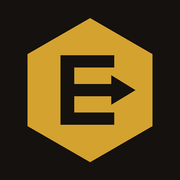
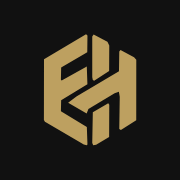
Add files via upload

diff --git a/app.js b/app.js
@@ -24,6 +24,8 @@
   let query = "";
   let settings = {};
   // Shop details: use what the owner saved in Settings, otherwise fall back to config.js
+  // Business name: what the owner saved in Settings, otherwise the default
+  const bizName = () => ((settings.business_name || "").trim() || "Ebony Imports Hub");
   const val = (k) => {
     const v = settings[k.toLowerCase()];
     return v !== undefined && v !== null && String(v).trim() !== "" ? String(v).trim() : cfg[k];
@@ -93,7 +95,15 @@
       setupNeeded();
       return;
     }
-    sb = window.supabase.createClient(cfg.SUPABASE_URL, cfg.SUPABASE_ANON_KEY);
+    // The owner login is kept in sessionStorage, which the browser wipes when the tab or app is closed.
+    // So after closing, the password is needed again. (Old "stay logged in" copies are removed.)
+    try { Object.keys(localStorage).filter((k) => /^sb-.*-auth-token/.test(k)).forEach((k) => localStorage.removeItem(k)); } catch (_) {}
+    let store;
+    try { store = window.sessionStorage; store.getItem("x"); }
+    catch (_) { const mem = {}; store = { getItem: (k) => (k in mem ? mem[k] : null), setItem: (k, v) => { mem[k] = v; }, removeItem: (k) => { delete mem[k]; } }; }
+    sb = window.supabase.createClient(cfg.SUPABASE_URL, cfg.SUPABASE_ANON_KEY, {
+      auth: { storage: store, persistSession: true, autoRefreshToken: true, detectSessionInUrl: false },
+    });
     const { data } = await sb.auth.getSession();
     session = data.session;
     sb.auth.onAuthStateChange((_e, s) => { session = s; });
@@ -187,7 +197,7 @@
 
   function contactSection() {
     const num = String(val("WHATSAPP_NUMBER") || "").replace(/\D/g, "");
-    const chat = `https://wa.me/${num}?text=${encodeURIComponent("Hello " + (val("BUSINESS_NAME") || "Ebony Import Hub") + ", I have a question.")}`;
+    const chat = `https://wa.me/${num}?text=${encodeURIComponent("Hello " + (bizName()) + ", I have a question.")}`;
     const items = [];
     if (num) items.push(`<a class="btn btn-wa" href="${esc(chat)}" target="_blank" rel="noopener">Chat on WhatsApp${val("PHONE_DISPLAY") ? ` · ${esc(val("PHONE_DISPLAY"))}` : ""}</a>`);
     if (val("WHATSAPP_GROUP")) items.push(`<a class="btn btn-gold" href="${esc(val("WHATSAPP_GROUP"))}" target="_blank" rel="noopener">Join our WhatsApp group</a>`);
@@ -242,7 +252,7 @@
     const waLink = () => {
       const b = avail.find((x) => x.id === chosen);
       const lines = [
-        `Hello ${val("BUSINESS_NAME") || "Ebony Import Hub"}, I'd like to preorder:`,
+        `Hello ${bizName()}, I'd like to preorder:`,
         p.name,
         `Item: ${naira(p.price)}`,
         `Shipping: ${naira(p.shipping_fee)}`,
@@ -318,7 +328,7 @@
   function renderInfo() {
     if (!loaded) { app.innerHTML = `<div class="loading">Loading…</div>`; return; }
     const num = String(val("WHATSAPP_NUMBER") || "").replace(/\D/g, "");
-    const chat = `https://wa.me/${num}?text=${encodeURIComponent("Hello " + (val("BUSINESS_NAME") || "Ebony Import Hub") + ", I have a question about shipping.")}`;
+    const chat = `https://wa.me/${num}?text=${encodeURIComponent("Hello " + (bizName()) + ", I have a question about shipping.")}`;
     const rules = (settings.rules || "").trim();
     app.innerHTML = `
       <section class="hero"><h1>Shipping rules &amp; how to order</h1>
@@ -528,7 +538,7 @@
         <h2 style="margin:0 0 14px;font-size:18px">Shop details</h2>
         <form id="sform">
           <div class="field"><label for="s-name">Business name</label>
-            <input id="s-name" type="text" maxlength="60" value="${esc(val("BUSINESS_NAME"))}"></div>
+            <input id="s-name" type="text" maxlength="60" value="${esc(bizName())}"></div>
           <div class="field"><label for="s-wa">WhatsApp number</label>
             <input id="s-wa" type="text" inputmode="tel" maxlength="20" value="${esc(val("PHONE_DISPLAY") || val("WHATSAPP_NUMBER"))}">
             <span class="hint">e.g. 09066944108. Customers' preorder messages go to this number.</span></div>
@@ -807,6 +817,20 @@
       }
     };
   }
+
+  // The owner area is not linked anywhere customers can see.
+  // To open the owner login: tap the logo at the top 5 times quickly.
+  (function () {
+    const brand = document.querySelector(".brand");
+    if (!brand) return;
+    let taps = 0, timer;
+    brand.addEventListener("click", (e) => {
+      taps += 1;
+      clearTimeout(timer);
+      timer = setTimeout(() => { taps = 0; }, 2500);
+      if (taps >= 5) { taps = 0; e.preventDefault(); location.hash = "#/owner"; }
+    });
+  })();
 
   if ("serviceWorker" in navigator) {
     window.addEventListener("load", () => navigator.serviceWorker.register("sw.js").catch(() => {}));

diff --git a/index.html b/index.html
@@ -3,9 +3,9 @@
 <head>
 <meta charset="utf-8">
 <meta name="viewport" content="width=device-width, initial-scale=1, viewport-fit=cover">
-<title>Ebony Import Hub</title>
+<title>Ebony Imports Hub</title>
 <meta name="description" content="Preorder from China. Browse products with prices including shipping.">
-<meta name="theme-color" content="#14110F">
+<meta name="theme-color" content="#111111">
 <link rel="manifest" href="manifest.webmanifest">
 <link rel="icon" type="image/png" href="icons/icon-192.png">
 <link rel="apple-touch-icon" href="icons/apple-touch-icon.png">
@@ -15,21 +15,14 @@
 <meta name="apple-mobile-web-app-status-bar-style" content="black-translucent">
 <link rel="preconnect" href="https://fonts.googleapis.com">
 <link rel="preconnect" href="https://fonts.gstatic.com" crossorigin>
-<link href="https://fonts.googleapis.com/css2?family=Sora:wght@400;500;600;700&amp;display=swap" rel="stylesheet">
+<link href="https://fonts.googleapis.com/css2?family=Sora:wght@400;500;600;700&amp;family=Playfair+Display:wght@700&amp;family=Montserrat:wght@600;700&amp;display=swap" rel="stylesheet">
 <link rel="stylesheet" href="styles.css">
 </head>
 <body>
 <header class="top">
-  <a class="brand" href="#/" aria-label="Ebony Import Hub home">
-    <svg width="40" height="40" viewBox="0 0 120 120" aria-hidden="true">
-      <polygon points="60,6 106.8,33 106.8,87 60,114 13.2,87 13.2,33" fill="#D4A22F"/>
-      <rect x="38" y="34" width="10" height="52" fill="#14110F"/>
-      <rect x="38" y="34" width="40" height="9" fill="#14110F"/>
-      <rect x="38" y="77" width="40" height="9" fill="#14110F"/>
-      <rect x="38" y="55.5" width="40" height="9" fill="#14110F"/>
-      <polygon points="76,49 94,60 76,71" fill="#14110F"/>
-    </svg>
-    <span class="brand-text"><b>EBONY</b><small>IMPORT HUB</small></span>
+  <a class="brand" href="#/" aria-label="Ebony Imports Hub home">
+    <svg width="31" height="37" viewBox="0 0 203.0 243.0" aria-hidden="true"><path fill="#BDA060" fill-rule="evenodd" d="M139.8 150.1 L107.2 169.5 L106.0 234.4 L108.1 238.8 L114.2 237.8 L141.6 221.4 L141.9 153.4ZM165.6 38.0 L163.0 41.4 L162.4 83.0 L72.6 136.1 L55.1 149.0 L94.2 171.9 L97.9 162.5 L153.2 129.2 L162.2 126.2 L164.0 136.5 L163.0 204.4 L166.4 206.9 L198.8 186.0 L198.9 58.5 L194.2 53.1ZM108.9 5.1 L106.0 9.4 L106.0 95.4 L107.2 101.4 L110.0 102.8 L141.6 82.4 L141.9 28.5 L138.0 20.6ZM92.9 4.6 L4.2 57.5 L4.0 185.5 L6.2 189.5 L88.2 237.5 L94.2 238.9 L95.9 237.2 L94.6 200.6 L39.9 167.2 L40.4 144.1 L95.8 110.0 L94.5 72.6 L41.5 102.1 L39.9 100.8 L40.4 75.1 L95.5 42.6 L95.9 7.5Z"/></svg>
+    <span class="brand-text"><b>EBONY</b><small>IMPORTS HUB</small></span>
   </a>
 </header>
 
@@ -38,7 +31,6 @@
 <footer class="foot">
   <p>Preorder from China &middot; Prices shown include shipping</p>
   <a href="#/info" class="owner-link">Shipping rules</a>
-  <a href="#/owner" class="owner-link">Owner login</a>
 </footer>
 
 <div id="toast" role="status"></div>

diff --git a/styles.css b/styles.css
@@ -1,6 +1,6 @@
 :root{
-  --ebony:#14110F; --gold:#D4A22F; --gold-deep:#9A7114; --cream:#F6F1E7; --card:#FFFFFF;
-  --muted:#5A4E44; --line:#E4DCCB; --danger:#B3261E; --ok:#2F6B3A;
+  --ebony:#111111; --gold:#BDA060; --gold-deep:#7C6128; --cream:#FAF8F4; --card:#FFFFFF;
+  --muted:#5C5852; --line:#E5E1D8; --danger:#B3261E; --ok:#2F6B3A;
   --radius:16px;
 }
 *{box-sizing:border-box}
@@ -15,8 +15,8 @@ button,input,select,textarea{font:inherit;color:inherit}
 .top{background:var(--ebony);padding:calc(10px + env(safe-area-inset-top)) 16px 10px;position:sticky;top:0;z-index:20}
 .brand{display:inline-flex;align-items:center;gap:12px;text-decoration:none;color:var(--cream)}
 .brand-text{display:flex;flex-direction:column;line-height:1}
-.brand-text b{font-size:22px;letter-spacing:.06em;font-weight:700}
-.brand-text small{font-size:10px;letter-spacing:.34em;color:var(--gold);margin-top:5px;font-weight:500}
+.brand-text b{font-family:'Playfair Display',Georgia,serif;font-size:23px;letter-spacing:.05em;font-weight:700}
+.brand-text small{font-family:'Montserrat','Sora',sans-serif;font-size:10px;letter-spacing:.24em;color:var(--gold);margin-top:5px;font-weight:700}
 
 /* hero + tools */
 .hero{padding:18px 4px 6px}
@@ -49,10 +49,10 @@ button,input,select,textarea{font:inherit;color:inherit}
 
 /* buttons */
 .btn{display:inline-flex;align-items:center;justify-content:center;gap:8px;min-height:48px;padding:0 20px;border:0;border-radius:12px;background:var(--ebony);color:var(--cream);font-weight:600;cursor:pointer;text-decoration:none}
-.btn:hover{background:#2A2420}
+.btn:hover{background:#2B2B2B}
 .btn[disabled]{opacity:.5;cursor:not-allowed}
 .btn-gold{background:var(--gold);color:var(--ebony)}
-.btn-gold:hover{background:#E0B246}
+.btn-gold:hover{background:#CDB27A}
 .btn-wa{background:#1F7A3E;color:#fff}
 .btn-wa:hover{background:#186331}
 .btn-ghost{background:transparent;color:var(--ebony);border:1.5px solid var(--ebony)}

diff --git a/sw.js b/sw.js
@@ -1,6 +1,6 @@
 // Simple service worker: makes the app installable and quick to reopen.
 // If you ever change app files and phones keep showing the old version, bump CACHE.
-const CACHE = "ebony-hub-v3";
+const CACHE = "ebony-hub-v4";
 const SHELL = [
   "./", "index.html", "styles.css", "app.js", "config.js",
   "manifest.webmanifest", "icons/icon-192.png", "icons/icon-512.png"

diff --git a/README.md b/README.md
@@ -1,4 +1,4 @@
-# Ebony Import Hub app
+# Ebony Imports Hub app
 
 An installable app (works on Android and iPhone) where customers browse your products with prices including shipping, and where you log in with one password to add, edit and remove products and photos.
 
@@ -44,7 +44,7 @@ The anon key is designed to be public. It cannot change anything without your ow
 
 ## Using the owner area
 
-1. Scroll to the bottom of the app and tap **Owner login**, enter your password. Phone, tablet and laptop all use the same password.
+1. Tap the **logo at the top of the app 5 times quickly**. The owner login opens. (There is no owner link on the shop, so customers never see it.) Enter your owner password. Phone, tablet and laptop all use the same password.
 2. Tap **Add product**: add up to 4 photos, name, category (Clothes, Shoes, Bags, etc., or type your own), item price, and shipping fee. The total customers will see is shown as you type.
 3. **Edit** changes anything. **Mark sold out** keeps the product visible but stops preorders. **Delete** removes it and its photos.
 
@@ -85,3 +85,13 @@ Run `rules.sql` once in Supabase (SQL Editor, New query, paste, Run). Then, in t
 - Start a line with `# ` for a heading and `- ` for a bullet point. Leave a blank line between sections.
 - Tap **Save rules**. Use **Preview page** to see what customers will see.
 - Customers get a **Shipping rules & how to order** button at the top of the shop, plus a **Shipping rules** link at the bottom. If you leave the box empty, the button at the top is hidden.
+
+## Owner login privacy
+
+- The owner login is not linked anywhere on the shop. Open it by tapping the logo 5 times quickly.
+- When you close the tab or the installed app, you are logged out automatically and need your password again.
+- Staying logged in while the app is open and refreshing the page is normal. Use **Log out** or **Sign out of all devices** (in Settings) to end it sooner.
+
+## Fixing "Could not find the ... column" errors
+
+Run `batches.sql` again in Supabase (SQL Editor, New query, paste, Run). It is safe to run more than once and adds any missing columns.
